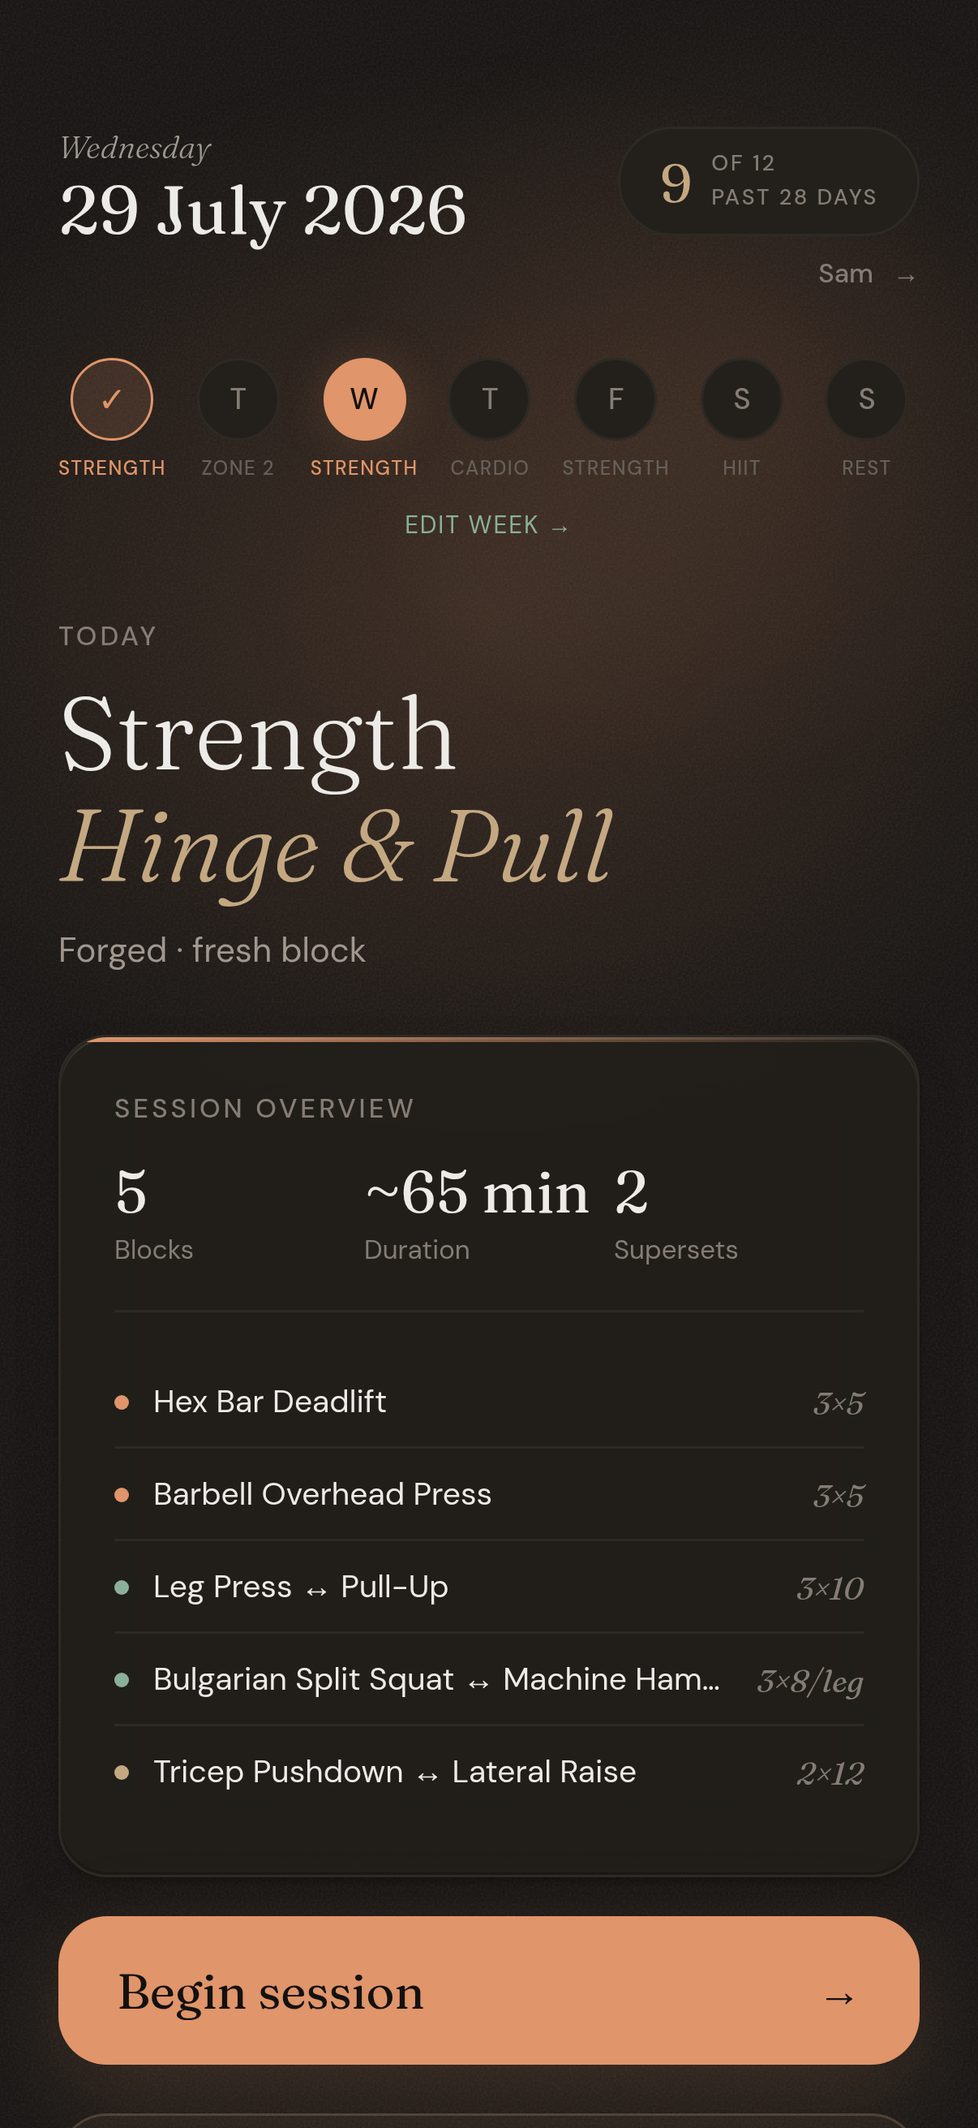
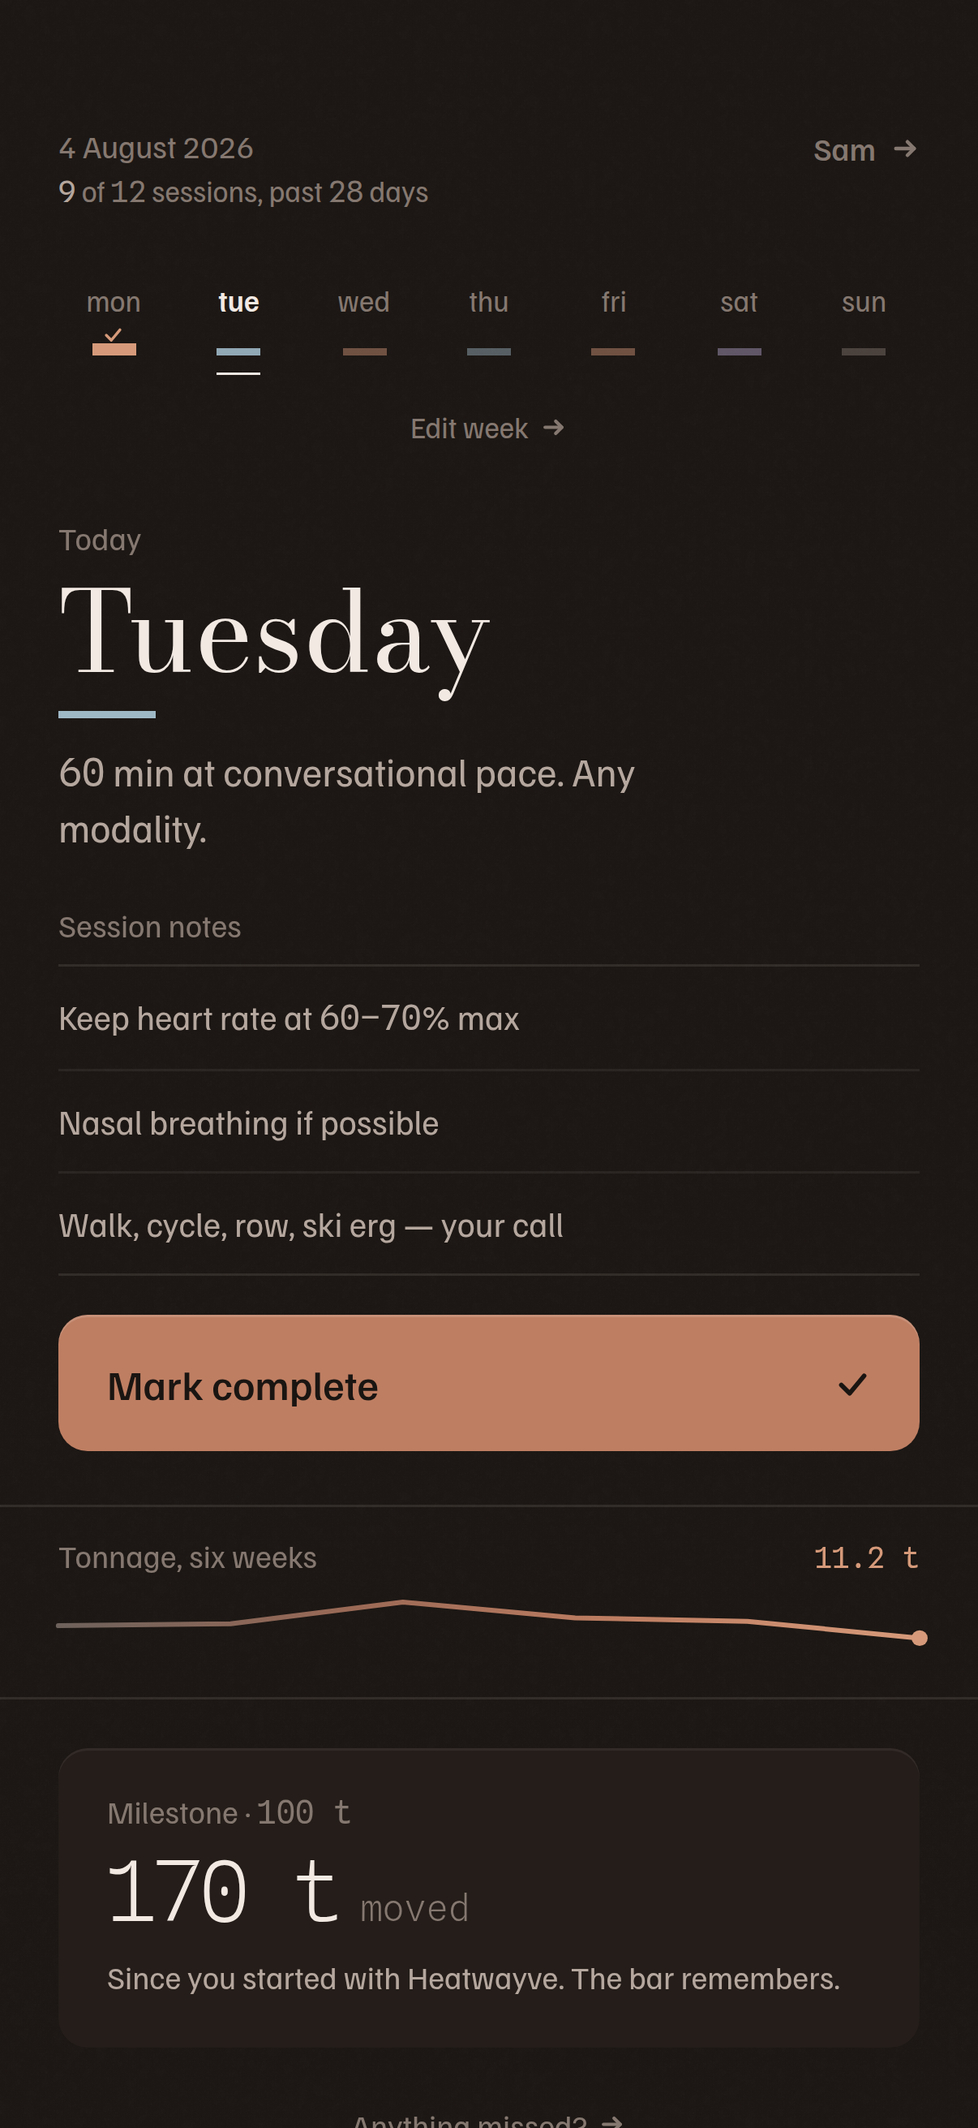
Install story refresh: current-design screenshots, findable walkthrough, README fact-check
The manifest's install screenshots still showed the retired design; reshot
with the synthetic harness against the current build (and the seed's last
session now lands yesterday, so the tonnage strip opens on a live week
instead of a 0 kg dip).

The Add-to-Home-Screen walkthrough moves out of ForgeApp into
components/InstallWalkthrough.jsx: the one-shot nudge is unchanged, but a
quiet Profile row (iOS browser, not yet installed) now reopens the steps —
previously one "Maybe later" hid them forever. Shared canWalkthroughInstall()
replaces the duplicated iOS/standalone sniff.

README: test counts current (876/57), dates.js added to the architecture
map. Sync/auth sections checked against the code — already accurate.

Claude-Session: https://claude.ai/code/session_01Gucgxvub2JW5XT1q9dhU8f

diff --git a/components/ForgeApp.jsx b/components/ForgeApp.jsx
@@ -22,6 +22,7 @@ import { absencesFromHistory, weeklySlotsFromWeek } from "@/lib/absence";
 import { isHeatwayveOrigin, migrationWindowOpen, hasPreFlipStory } from "@/lib/origin";
 import { activeBreak } from "@/lib/breaks";
 import { todayLocalIso, mondayIndex, jsDow } from "@/lib/dates";
+import InstallWalkthrough, { canWalkthroughInstall } from "@/components/InstallWalkthrough";
 import { getThemePreference, stampTheme } from "@/lib/theme";
 import BreatherModal from "@/components/BreatherModal";
 import { T, DISPLAY, heatForRpe, heatMarkHeight } from "@/lib/tokens";
@@ -556,15 +557,9 @@ export default function ForgeApp(){
     // Already dismissed in the past? Leave it alone.
     if (LS.get("forge:iosInstallDismissed", false)) return;
 
-    // Not on iOS? Android handles the prompt natively via the manifest.
-    const ua = window.navigator.userAgent;
-    const isIOS = /iPad|iPhone|iPod/.test(ua) && !(/** @type {any} */ (window)).MSStream;
-    if (!isIOS) return;
-
-    // Already installed (launched from home screen)?
-    const isStandalone = window.matchMedia("(display-mode: standalone)").matches
-      || (/** @type {any} */ (window.navigator)).standalone === true;
-    if (isStandalone) return;
+    // iOS Safari, not yet installed — the only audience the walkthrough
+    // serves (Android gets the native manifest prompt).
+    if (!canWalkthroughInstall()) return;
 
     // Gate on ≥1 completed session — don't nag new visitors
     if (history.length < 1) return;
@@ -1174,7 +1169,7 @@ export default function ForgeApp(){
       {retroPickerOpen        && <RetroPickerSheet untickedDays={untickedDays} pendingDraft={pendingDraft} onPick={handlePickRetroDate} onTickDate={handleMarkDayDone} onClose={()=>setRetroPickerOpen(false)}/>}
       {rotationSummary        && <RotationSummaryModal summary={rotationSummary} onContinue={handleRotationContinue}/>}
       {rotationPreview        && <RotationPreviewSheet preview={rotationPreview} onConfirm={handleRotationConfirm} onReroll={handleRotationReroll} onCancel={handleRotationCancel}/>}
-      {showIosInstall         && <IosInstallOverlay migration={isHeatwayveOrigin() && migrationWindowOpen() && hasPreFlipStory(history)} onDismiss={()=>{ LS.set("forge:iosInstallDismissed", true); setShowIosInstall(false); }}/>}
+      {showIosInstall         && <InstallWalkthrough migration={isHeatwayveOrigin() && migrationWindowOpen() && hasPreFlipStory(history)} onDismiss={()=>{ LS.set("forge:iosInstallDismissed", true); setShowIosInstall(false); }}/>}
       <BodyweightEditModal open={bwEditOpen} onClose={()=>setBwEditOpen(false)} currentKg={bodyweight} onSave={updateBodyweight} profileName={activeProfile}/>
       {weekEditorOpen && (
         <WeekEditorSheet
@@ -1995,113 +1990,3 @@ function RetrospectiveSessionSheet({date, bodyweight, workingWeights, workingRep
 // BodyweightEditModal now lives in components/BodyweightEditModal.jsx (PR3 3c).
 
 
-// ─── iOS Install Overlay ─────────────────────────────────────────────────────
-// Safari on iOS doesn't surface beforeinstallprompt, so we walk the user
-// through the native "Add to Home Screen" flow ourselves. Triggered after
-// first completed session, dismissable, remembered via localStorage.
-// `migration` (flip package, dormant until heatwayve.app is primary): the
-// re-add moment for MIGRATED users only — three gates (boss catches,
-// 2026-07-27): new origin AND inside the 60-day migration window AND a
-// pre-flip story in history. First-timers on Heatwayve get the ordinary
-// pitch (you can't add something BACK you never had), and the voice
-// retires itself when the window closes. Mechanically the nudge is free —
-// the per-origin dismissed flag resets on the new domain and the overlay
-// re-fires once history hydrates. Copy: drafts, intimacy pass may season.
-function IosInstallOverlay({ onDismiss, migration = false }) {
-  const { containerRef, onKeyDown } = useModalA11y(onDismiss);
-  const titleId = "ios-install-title";
-  return (
-    <div
-      onClick={onDismiss}
-      onKeyDown={onKeyDown}
-      className="forge-scrim forge-scrim-plain" style={{
-        zIndex:500,
-        overscrollBehavior:"contain",
-        display:"flex",alignItems:"flex-end",justifyContent:"center",
-        animation:`fadeIn 220ms ${T.ease}`,
-      }}>
-      <div ref={containerRef} role="dialog" aria-modal="true" aria-labelledby={titleId} tabIndex={-1} onClick={e => e.stopPropagation()}
-        className="forge-vellum"
-        style={{
-          borderRadius:"12px 12px 0 0",
-          outline:"none",
-          padding:"24px 24px calc(24px + env(safe-area-inset-bottom))",
-          width:"100%",maxWidth:430,
-          maxHeight:"92vh",overflowY:"auto",
-          animation:`slideUp 280ms ${T.ease}`,
-          position:"relative",
-          boxSizing:"border-box",
-        }}>
-        {/* No corner ✕ — house modal doctrine (bottom-row dismiss only). */}
-        <div style={{fontSize:13,fontWeight:500,color:T.ink3,marginBottom:8}}>
-          {migration ? "Same fire, new home" : "Live on your home screen"}
-        </div>
-        <div id={titleId} style={{...DISPLAY,fontSize:28,color:T.ink,marginBottom:10}}>
-          Heatwayve
-        </div>
-        <p style={{fontSize:13,color:T.ink2,marginBottom:20,lineHeight:1.6}}>
-          {migration
-            ? "Add it back — we moved, and your story came with us. One re-add and the home screen is yours again."
-            : "Install it: fullscreen, one tap to open, works offline between sessions."}
-        </p>
-
-        {/* Three steps — Safari's share flow */}
-        <div style={{display:"flex",flexDirection:"column",gap:12,marginBottom:20}}>
-          <InstallStep n="1">
-            <span style={{display:"inline-flex",alignItems:"center",gap:6,flexWrap:"wrap"}}>
-              Tap the share icon <ShareGlyph/>
-            </span>
-          </InstallStep>
-          <InstallStep n="2">
-            <span>Scroll and pick <span style={{color:T.ink,fontWeight:500}}>Add to Home Screen</span></span>
-          </InstallStep>
-          <InstallStep n="3">
-            <span>Tap <span style={{color:T.ink,fontWeight:500}}>Add</span> — done</span>
-          </InstallStep>
-        </div>
-
-        <button onClick={onDismiss}
-          style={{width:"100%",padding:"14px",background:"none",border:`1px solid ${T.rule}`,borderRadius:T.r,cursor:"pointer",fontFamily:T.text,fontSize:14,color:T.ink2}}>
-          Maybe later
-        </button>
-      </div>
-    </div>
-  );
-}
-
-// SVG glyph approximating the iOS Safari share icon — a square with an
-// up-arrow emerging from the top. Inline with the text, ink stroke: the
-// glyph grammar is round caps and open strokes, no filled shapes.
-function ShareGlyph() {
-  return (
-    <svg
-      aria-hidden="true"
-      width="18" height="22" viewBox="0 0 18 22"
-      style={{display:"inline-block",verticalAlign:"-5px",flexShrink:0}}
-    >
-      {/* Box — lower two thirds */}
-      <rect x="2" y="8" width="14" height="12" rx="2" ry="2"
-        fill="none" stroke="var(--ink-2)" strokeWidth="2.25"/>
-      {/* Arrow shaft */}
-      <line x1="9" y1="2" x2="9" y2="13"
-        stroke="var(--ink-2)" strokeWidth="2.25" strokeLinecap="round"/>
-      {/* Arrow head */}
-      <polyline points="5,6 9,2 13,6"
-        fill="none" stroke="var(--ink-2)" strokeWidth="2.25"
-        strokeLinecap="round" strokeLinejoin="round"/>
-    </svg>
-  );
-}
-
-// Enclosure is not in the drawn-glyph grammar — the step number stands as
-// a bare mono numeral against a hairline, same language as the data marks.
-function InstallStep({ n, children }) {
-  return (
-    <div style={{display:"flex",alignItems:"baseline",gap:14,paddingBottom:10,borderBottom:`1px solid ${T.ruleFaint}`}}>
-      <div style={{flexShrink:0,width:16,fontFamily:T.measured,fontSize:14,color:T.ink3}}>{n}</div>
-      <div style={{flex:1,fontSize:14,color:T.ink2,lineHeight:1.5}}>
-        {children}
-      </div>
-    </div>
-  );
-}

diff --git a/components/InstallWalkthrough.jsx b/components/InstallWalkthrough.jsx
@@ -1,0 +1,131 @@
+"use client";
+// components/InstallWalkthrough.jsx
+// ─────────────────────────────────────────────────────────────────────────────
+// The "Add to Home Screen" walkthrough — Safari on iOS has no
+// beforeinstallprompt, so we walk the user through the native flow ourselves.
+// Extracted from ForgeApp so it serves two callers:
+//   · ForgeApp's one-shot nudge (after first completed session, dismissable,
+//     remembered via localStorage — including the migration voice, dormant
+//     until heatwayve.app is primary: three gates, boss catches 2026-07-27)
+//   · the Profile row, where a user who tapped "Maybe later" once can find
+//     the steps again on purpose. The nudge fires once; the route is forever.
+// `migration`: the re-add moment for MIGRATED users only — new origin AND
+// inside the 60-day window AND a pre-flip story in history. First-timers get
+// the ordinary pitch (you can't add something BACK you never had).
+// `cta`: bottom-row label. The nudge says "Maybe later" (it interrupted);
+// the Profile row says "Close" (the user asked).
+// ─────────────────────────────────────────────────────────────────────────────
+
+import { T, DISPLAY } from "@/lib/tokens";
+import { useModalA11y } from "@/lib/a11y";
+
+export default function InstallWalkthrough({ onDismiss, migration = false, cta = "Maybe later" }) {
+  const { containerRef, onKeyDown } = useModalA11y(onDismiss);
+  const titleId = "ios-install-title";
+  return (
+    <div
+      onClick={onDismiss}
+      onKeyDown={onKeyDown}
+      className="forge-scrim forge-scrim-plain" style={{
+        zIndex:500,
+        overscrollBehavior:"contain",
+        display:"flex",alignItems:"flex-end",justifyContent:"center",
+        animation:`fadeIn 220ms ${T.ease}`,
+      }}>
+      <div ref={containerRef} role="dialog" aria-modal="true" aria-labelledby={titleId} tabIndex={-1} onClick={e => e.stopPropagation()}
+        className="forge-vellum"
+        style={{
+          borderRadius:"12px 12px 0 0",
+          outline:"none",
+          padding:"24px 24px calc(24px + env(safe-area-inset-bottom))",
+          width:"100%",maxWidth:430,
+          maxHeight:"92vh",overflowY:"auto",
+          animation:`slideUp 280ms ${T.ease}`,
+          position:"relative",
+          boxSizing:"border-box",
+        }}>
+        {/* No corner ✕ — house modal doctrine (bottom-row dismiss only). */}
+        <div style={{fontSize:13,fontWeight:500,color:T.ink3,marginBottom:8}}>
+          {migration ? "Same fire, new home" : "Live on your home screen"}
+        </div>
+        <div id={titleId} style={{...DISPLAY,fontSize:28,color:T.ink,marginBottom:10}}>
+          Heatwayve
+        </div>
+        <p style={{fontSize:13,color:T.ink2,marginBottom:20,lineHeight:1.6}}>
+          {migration
+            ? "Add it back — we moved, and your story came with us. One re-add and the home screen is yours again."
+            : "Install it: fullscreen, one tap to open, works offline between sessions."}
+        </p>
+
+        {/* Three steps — Safari's share flow */}
+        <div style={{display:"flex",flexDirection:"column",gap:12,marginBottom:20}}>
+          <InstallStep n="1">
+            <span style={{display:"inline-flex",alignItems:"center",gap:6,flexWrap:"wrap"}}>
+              Tap the share icon <ShareGlyph/>
+            </span>
+          </InstallStep>
+          <InstallStep n="2">
+            <span>Scroll and pick <span style={{color:T.ink,fontWeight:500}}>Add to Home Screen</span></span>
+          </InstallStep>
+          <InstallStep n="3">
+            <span>Tap <span style={{color:T.ink,fontWeight:500}}>Add</span> — done</span>
+          </InstallStep>
+        </div>
+
+        <button onClick={onDismiss}
+          style={{width:"100%",padding:"14px",background:"none",border:`1px solid ${T.rule}`,borderRadius:T.r,cursor:"pointer",fontFamily:T.text,fontSize:14,color:T.ink2}}>
+          {cta}
+        </button>
+      </div>
+    </div>
+  );
+}
+
+// True on an iOS browser that is NOT already running from the home screen —
+// the only audience the walkthrough serves. Callers gate their entry point on
+// this so Android (native manifest prompt) and installed users never see it.
+export function canWalkthroughInstall() {
+  if (typeof window === "undefined") return false;
+  const isIOS = /iPad|iPhone|iPod/.test(window.navigator.userAgent)
+    && !(/** @type {any} */ (window)).MSStream;
+  const isStandalone = window.matchMedia("(display-mode: standalone)").matches
+    || (/** @type {any} */ (window.navigator)).standalone === true;
+  return isIOS && !isStandalone;
+}
+
+// SVG glyph approximating the iOS Safari share icon — a square with an
+// up-arrow emerging from the top. Inline with the text, ink stroke: the
+// glyph grammar is round caps and open strokes, no filled shapes.
+function ShareGlyph() {
+  return (
+    <svg
+      aria-hidden="true"
+      width="18" height="22" viewBox="0 0 18 22"
+      style={{display:"inline-block",verticalAlign:"-5px",flexShrink:0}}
+    >
+      {/* Box — lower two thirds */}
+      <rect x="2" y="8" width="14" height="12" rx="2" ry="2"
+        fill="none" stroke="var(--ink-2)" strokeWidth="2.25"/>
+      {/* Arrow shaft */}
+      <line x1="9" y1="2" x2="9" y2="13"
+        stroke="var(--ink-2)" strokeWidth="2.25" strokeLinecap="round"/>
+      {/* Arrow head */}
+      <polyline points="5,6 9,2 13,6"
+        fill="none" stroke="var(--ink-2)" strokeWidth="2.25"
+        strokeLinecap="round" strokeLinejoin="round"/>
+    </svg>
+  );
+}
+
+// Enclosure is not in the drawn-glyph grammar — the step number stands as
+// a bare mono numeral against a hairline, same language as the data marks.
+function InstallStep({ n, children }) {
+  return (
+    <div style={{display:"flex",alignItems:"baseline",gap:14,paddingBottom:10,borderBottom:`1px solid ${T.ruleFaint}`}}>
+      <div style={{flexShrink:0,width:16,fontFamily:T.measured,fontSize:14,color:T.ink3}}>{n}</div>
+      <div style={{flex:1,fontSize:14,color:T.ink2,lineHeight:1.5}}>
+        {children}
+      </div>
+    </div>
+  );
+}

diff --git a/components/ProfileScreen.jsx b/components/ProfileScreen.jsx
@@ -20,6 +20,7 @@ import {
 import { FOCUS_SUMMARIES } from "@/lib/programme";
 import { reasonLabel } from "@/lib/breaks";
 import BugReportSheet from "@/components/BugReportSheet";
+import InstallWalkthrough, { canWalkthroughInstall } from "@/components/InstallWalkthrough";
 import BodyweightDrum from "@/components/BodyweightDrum";
 import { isAdminSession } from "@/lib/auth-session";
 import { useInlineModalA11y } from "@/lib/a11y";
@@ -119,6 +120,12 @@ export default function ProfileScreen({existing,current,onActivate,onCancel,body
   const [authToken, setAuthToken] = useState(null); // For authenticated destructive ops
   const [needsPasskeyAuth, setNeedsPasskeyAuth] = useState(null); // Profile name requiring auth
   const [bugSheetOpen, setBugSheetOpen] = useState(false);
+  // The install walkthrough, findable on purpose: the home-screen nudge fires
+  // once and "Maybe later" is remembered forever, so this row is the only way
+  // back to the steps. iOS-browser-only (this screen never SSRs — ssr:false
+  // in client-shells — so the lazy read can't mismatch hydration).
+  const [installOpen, setInstallOpen] = useState(false);
+  const [canInstall] = useState(() => canWalkthroughInstall());
 
   // Check WebAuthn support on mount
   useEffect(() => {
@@ -854,7 +861,23 @@ export default function ProfileScreen({existing,current,onActivate,onCancel,body
         </Fade>
       )}
 
+      {/* Add-to-home-screen, on demand — only where it applies (iOS browser,
+          not already installed). Same quiet-row grammar as its neighbours. */}
+      {current && canInstall && (
+        <Fade d={308}>
+          <button onClick={() => setInstallOpen(true)}
+            style={{width:"100%",padding:"15px 2px",background:"none",border:"none",borderBottom:`1px solid ${T.rule}`,display:"flex",alignItems:"center",justifyContent:"space-between",cursor:"pointer",color:"inherit",textAlign:"left",fontFamily:T.text}}>
+            <div>
+              <div style={{fontSize:15,fontWeight:500,color:T.ink}}>Add to home screen</div>
+              <div style={{fontSize:12,color:T.ink3,marginTop:2}}>One tap to open. Fullscreen, offline, yours.</div>
+            </div>
+            <Glyph name="arrowRight" size={13} color={T.ink3}/>
+          </button>
+        </Fade>
+      )}
+
       {bugSheetOpen && <BugReportSheet profileName={current} onClose={() => setBugSheetOpen(false)} />}
+      {installOpen && <InstallWalkthrough cta="Close" onDismiss={() => setInstallOpen(false)} />}
 
       {/* The tip jar (boss, 2026-07-24; BMAC handle wired via FUNDING.yml
           2026-07-26). DISCREET by decree: a whisper at the end of the page,

diff --git a/tests/flip-dormant.test.js b/tests/flip-dormant.test.js
@@ -57,14 +57,16 @@ describe("dormant surfaces (code shape)", () => {
     // conditions — rather than one exact JSX string. A literal lock breaks on
     // harmless reformatting and gets "fixed" by deleting the assertion.
     const s = readFileSync(resolve(root, "components/ForgeApp.jsx"), "utf8");
-    const prop = s.match(/<IosInstallOverlay[^>]*migration=\{([^}]*)\}/)?.[1] || "";
+    const prop = s.match(/<InstallWalkthrough[^>]*migration=\{([^}]*)\}/)?.[1] || "";
     expect(prop).toMatch(/isHeatwayveOrigin\(\)/);
     expect(prop).toMatch(/migrationWindowOpen\(\)/);
     expect(prop).toMatch(/hasPreFlipStory\(/);
-    // Both voices are present: the migration line and the default.
-    expect(s).toContain("Same fire, new home");
-    expect(s).toContain("Add it back");
-    expect(s).toContain("Install it:");
+    // Both voices are present: the migration line and the default
+    // (the walkthrough itself lives in components/InstallWalkthrough.jsx).
+    const w = readFileSync(resolve(root, "components/InstallWalkthrough.jsx"), "utf8");
+    expect(w).toContain("Same fire, new home");
+    expect(w).toContain("Add it back");
+    expect(w).toContain("Install it:");
   });
   it("the welcome-back beat greets the move only on the new origin", () => {
     const s = readFileSync(resolve(root, "components/TakenNameModal.jsx"), "utf8");

diff --git a/README.md b/README.md
@@ -42,7 +42,7 @@ The repo name, the `forge:` localStorage prefix and the `forge/` blob paths keep
 | UI | React 19 | `ForgeApp.jsx` shell plus extracted screens — Home, Session, Profile, Lab |
 | Lint | ESLint flat config | `react-hooks/purity` + `set-state-in-effect` on as errors |
 | Types | TypeScript, `checkJs` | No `.ts` source — JSDoc types checked over plain JS |
-| Tests | Vitest | 803 tests across 53 files — invariants, engines, merge algebra, component tests |
+| Tests | Vitest | 876 tests across 57 files — invariants, engines, merge algebra, component tests |
 | Database | Neon Postgres | Canonical store: sessions, meta, photo index, auth tokens, bug reports |
 | Blob | Vercel Blob | Photo bytes, passkey credentials, write-only snapshots. Not a database |
 | Auth | WebAuthn passkeys | Optional — a lock on destructive operations, not an account system |
@@ -78,6 +78,7 @@ lib/
 ├── storage.js           # local cache, sync orchestration, session records
 ├── session-engine.js    # the one session-finalise choreography
 ├── analytics.js         # weekly volume, e1RM trends, plateau detection
+├── dates.js             # THE local calendar-day math — no other module hand-rolls it
 ├── exercise-anatomy.js  # muscle distribution map
 ├── absence.js/breaks.js # absence is derived; a breather is declared
 ├── auth-server.js       # rpId/origin config, signed challenges, tokens
@@ -172,7 +173,7 @@ npm test               # one-shot
 npm run test:watch     # watch mode
 ```
 
-803 tests across 53 files:
+876 tests across 57 files:
 
 - Programme invariants — `pool[0] === SESSIONS default`, load-profile coverage, main-lift equivalents alignment, library invariants.
 - Engines — rotation (block exclusion, profile filter, stimulus-delta maths, the volume solver), progression (decision table, cold starts, readiness gating), session finalise.
